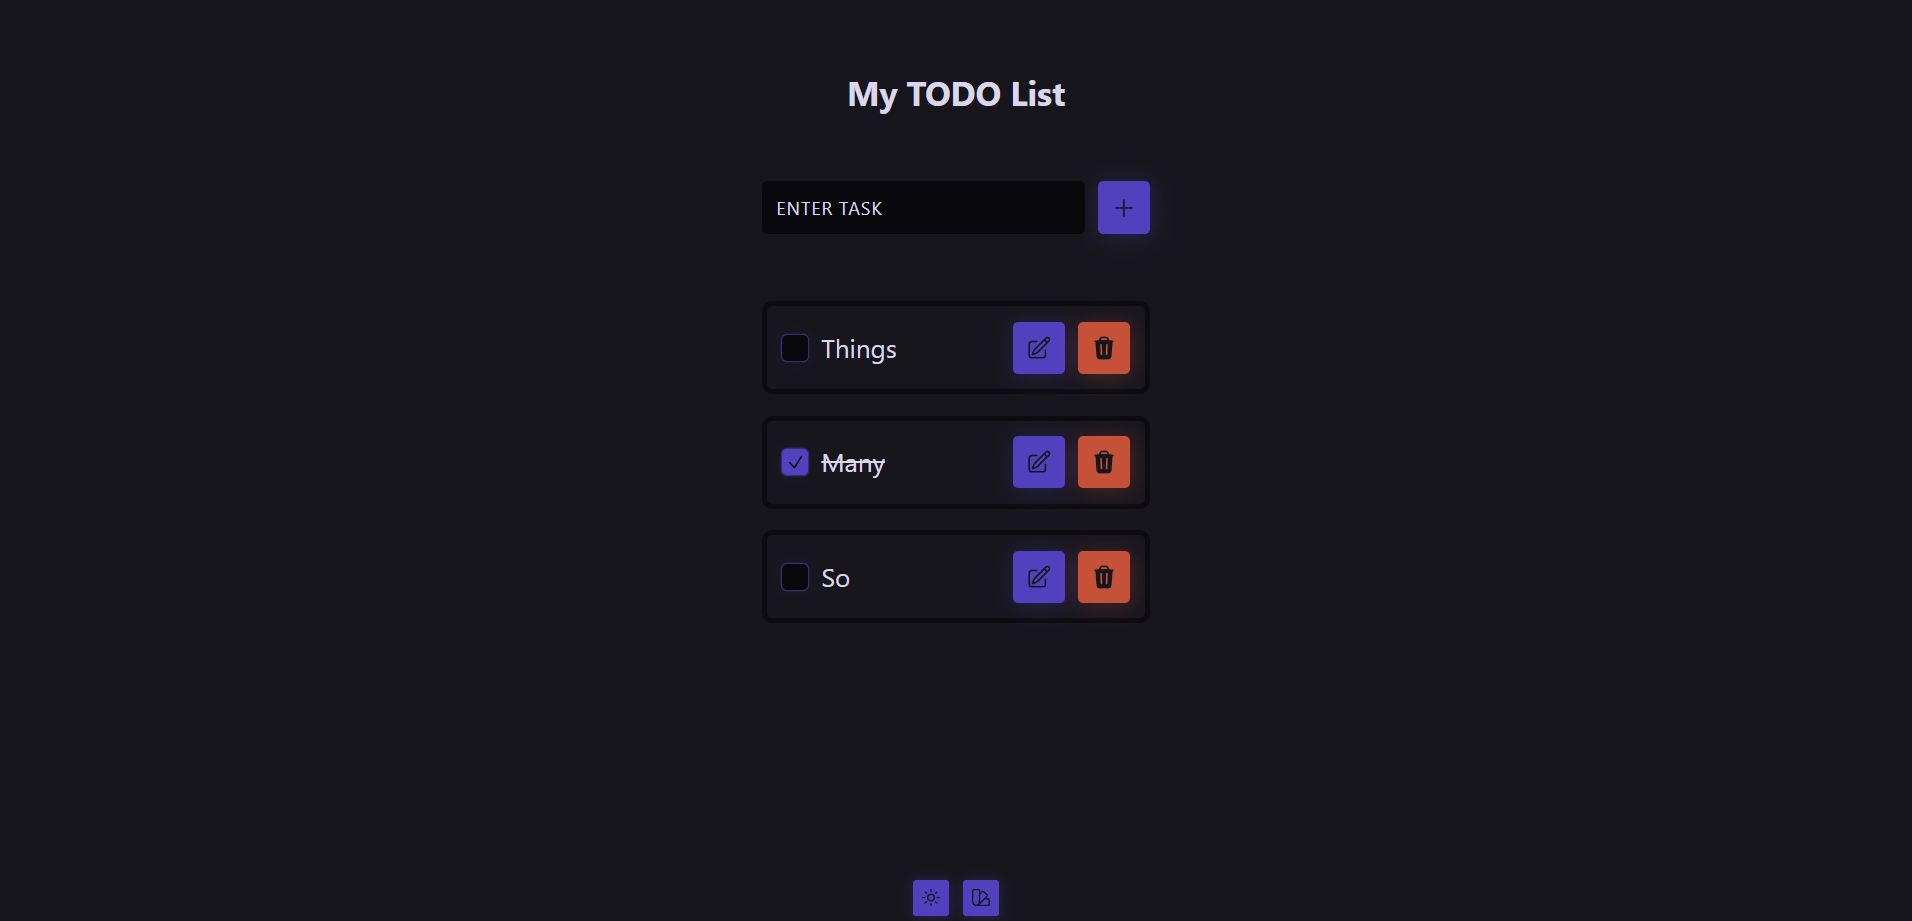
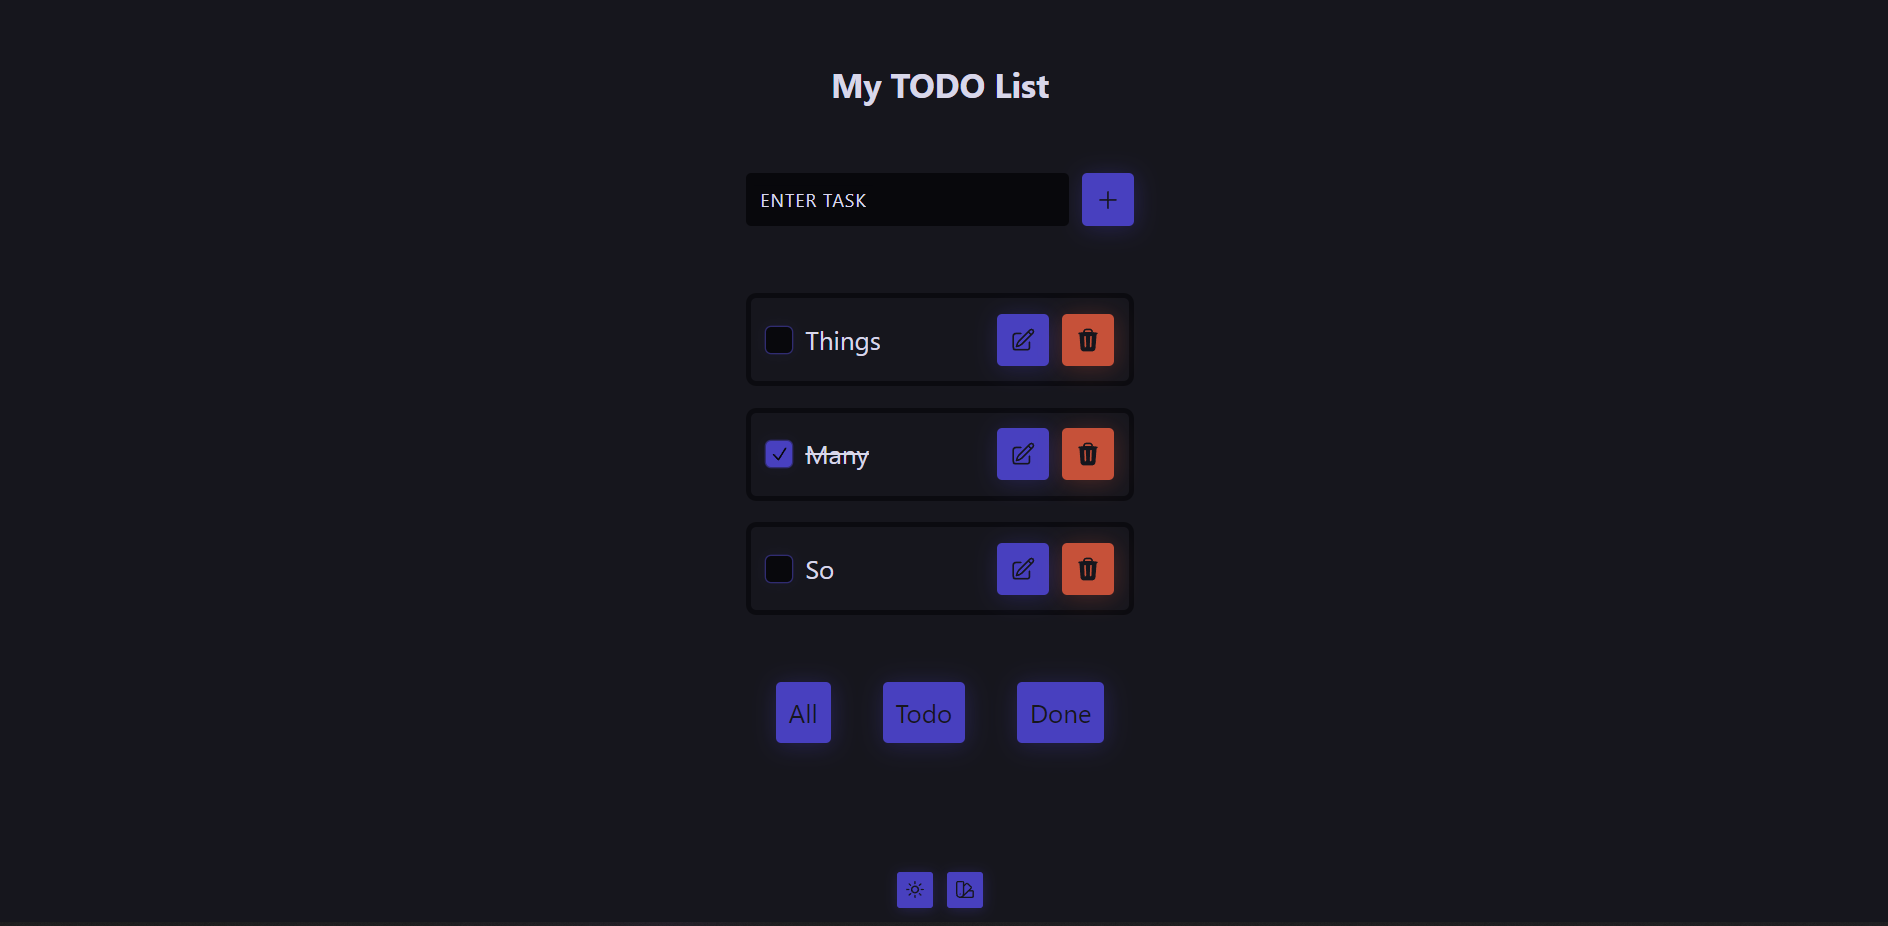
filter added

diff --git a/README.md b/README.md
@@ -4,6 +4,8 @@ Edit/Delete/Done task
 
 Dark/Light Theme
 
+Filter
+
 Picking Color
 
 <img src="preview.png" width='500' height='250'>
